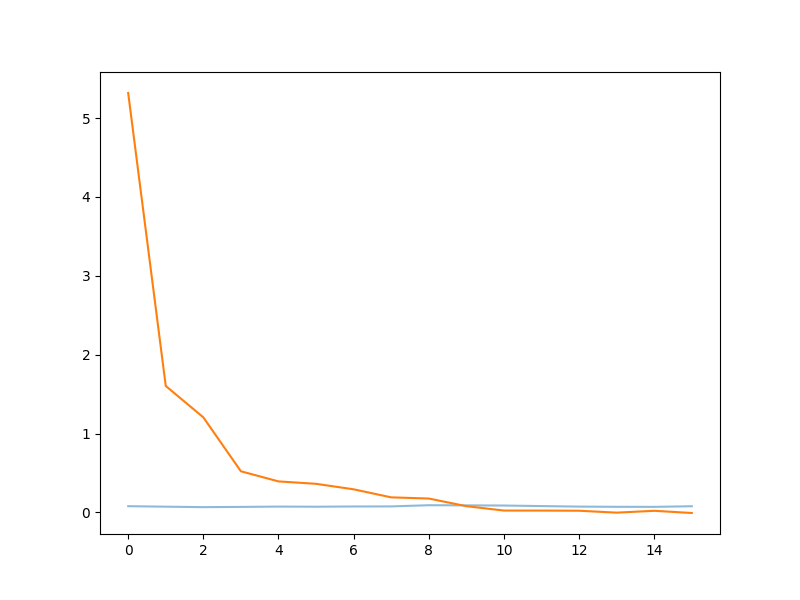
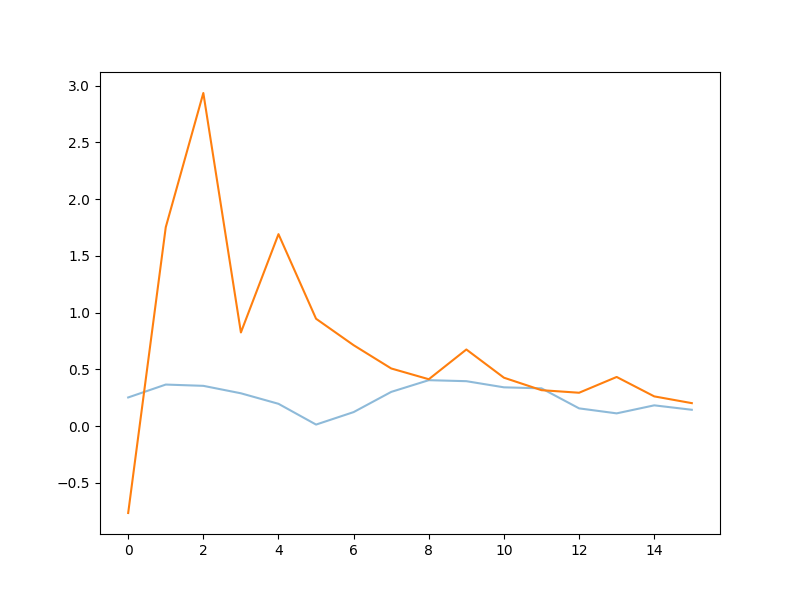
partial correct sparse gae

diff --git a/memory_perceiver/main/isaac.py b/memory_perceiver/main/isaac.py
@@ -133,6 +133,7 @@ def isaac_training(cf, cfg: DictConfig, rank, size):
     video = torch.zeros(cf.num_envs, cf.height, cf.width, cf.channels, device=rank, dtype=torch.uint8)
     reward = torch.zeros(cf.num_envs, 1, device=rank)
     actions_star = torch.zeros(cf.frames_future, cf.num_envs, cf.dim_actions, device=rank)
+    skip_indices = torch.tensor([i for i in range(0, cf.sim_duration, 2)], device, dtype=torch.int64)
 
     if rank == process_sim:
         cfg.seed = set_seed(cfg.seed, torch_deterministic=cfg.torch_deterministic)
@@ -218,9 +219,12 @@ def isaac_training(cf, cfg: DictConfig, rank, size):
                         
                     previous_history = deepcopy(history)
                     previous_history['returns'] = tr.calculate_returns(history['rewards'], history['death_index'], gamma=cf.gamma)
+                    history['rewards'][skip_indices] = history['rewards'][skip_indices+1]
                     previous_history['advantages'] = tr.calculate_gae(history['rewards'], history['values'], 
                                                         history['death_index'], gamma=cf.gamma, gae_lambda=cf.c_lambda)
                     if rank == 1:
+                        for key, value in previous_history.items():
+                            print(f"{key}: {value[:,0]}")
                         plotter.data['returns'].append(previous_history['returns'][:, :].mean().item())
 
                 if rank in process_agents:
@@ -415,7 +419,7 @@ if __name__ == "__main__":
     # os.environ["CUDA_ERROR_DUMP"] = "1"
     #os.environ["NCCL_DEBUG_SUBSYS"]="COLL" # print collective calls 
     os.environ["TORCH_CPP_LOG_LEVEL"]="FATAL" # INFO WARNING FATAL
-    os.environ["NCCL_DEBUG"]="TRACE" # WARN INFO DEBUG TRACE
+    os.environ["NCCL_DEBUG"]="WARN" # WARN INFO DEBUG TRACE
     
     with initialize(config_path="../../OmniIsaacGymEnvs/omniisaacgymenvs/cfg"):
         cfg = compose(config_name="config", overrides=["task="+cf.task_name, "headless=True", "enable_viewport=True",

diff --git a/memory_perceiver/main/configuration.py b/memory_perceiver/main/configuration.py
@@ -34,7 +34,7 @@ class Config:
     dim_actions = 1 # 21 1
     dim_actions_ppo = frames_future*dim_actions #
     sim_duration = 260 # 1028 516 260
-    num_envs = 864 # 54
+    num_envs = 216 # 54 864
     learning_rate = 1e-3 # 1e-4
     accumulation_steps = 4 #2
     entropy = 0.05  # 0.01 to 0.05
